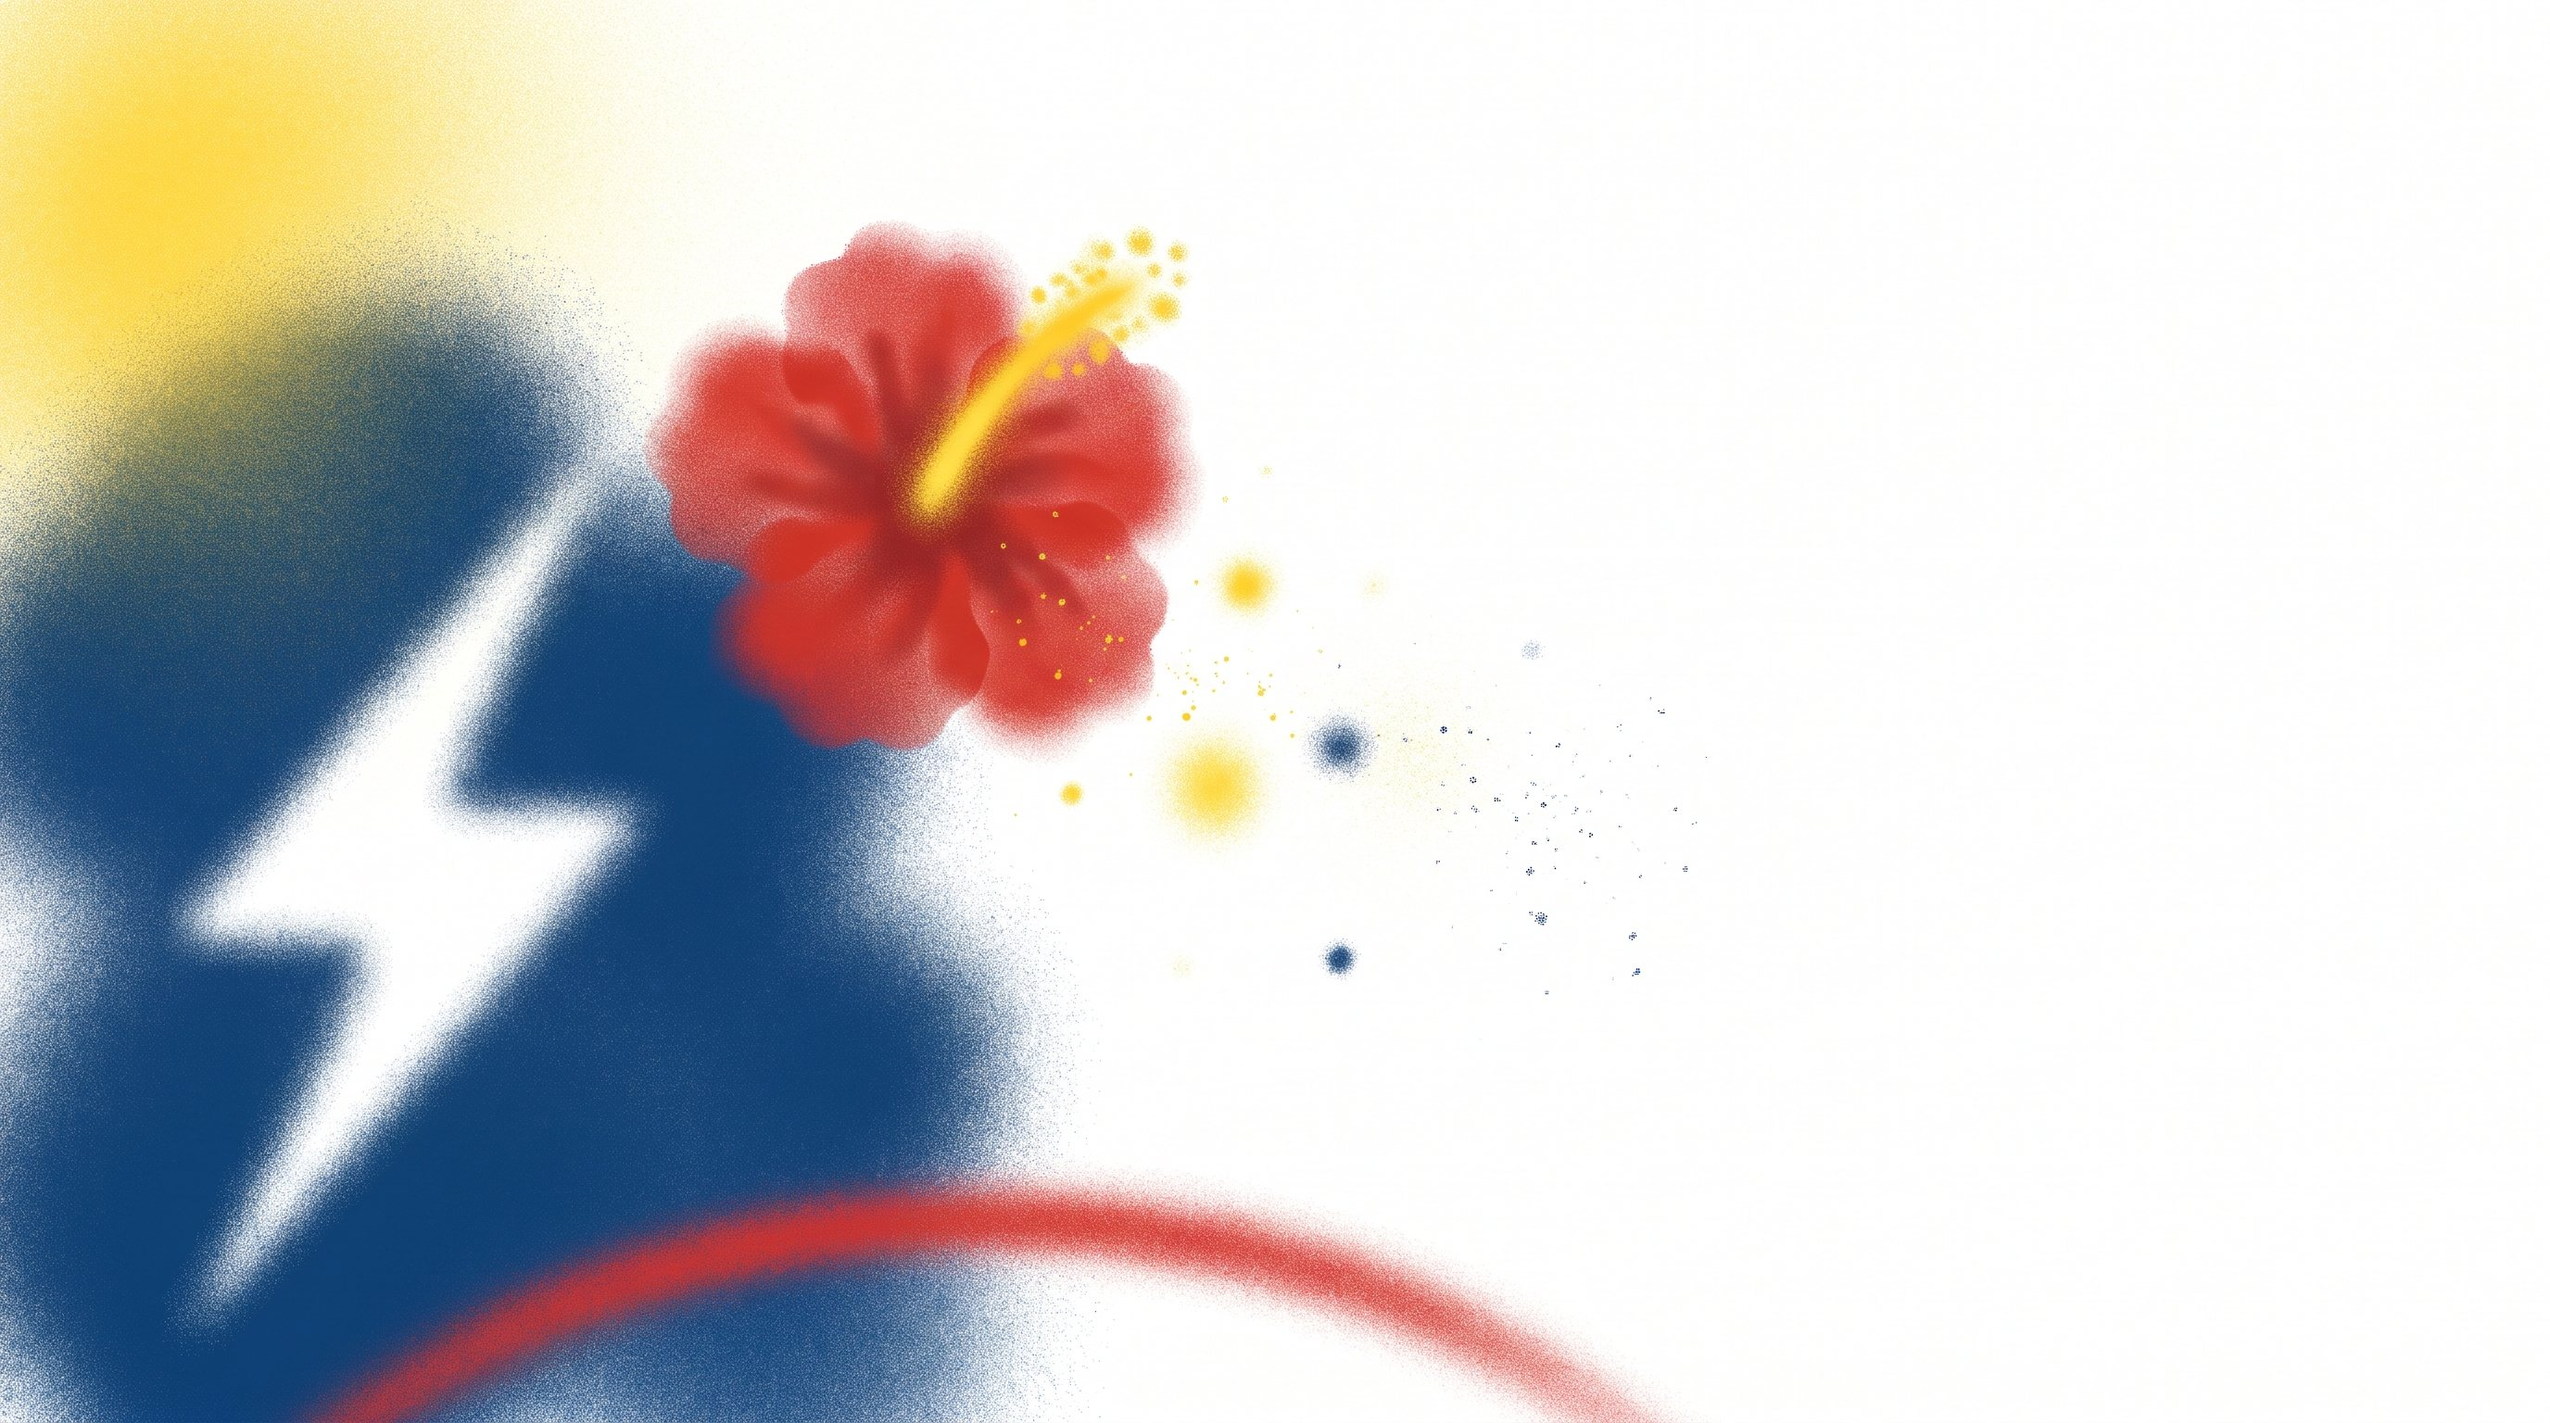
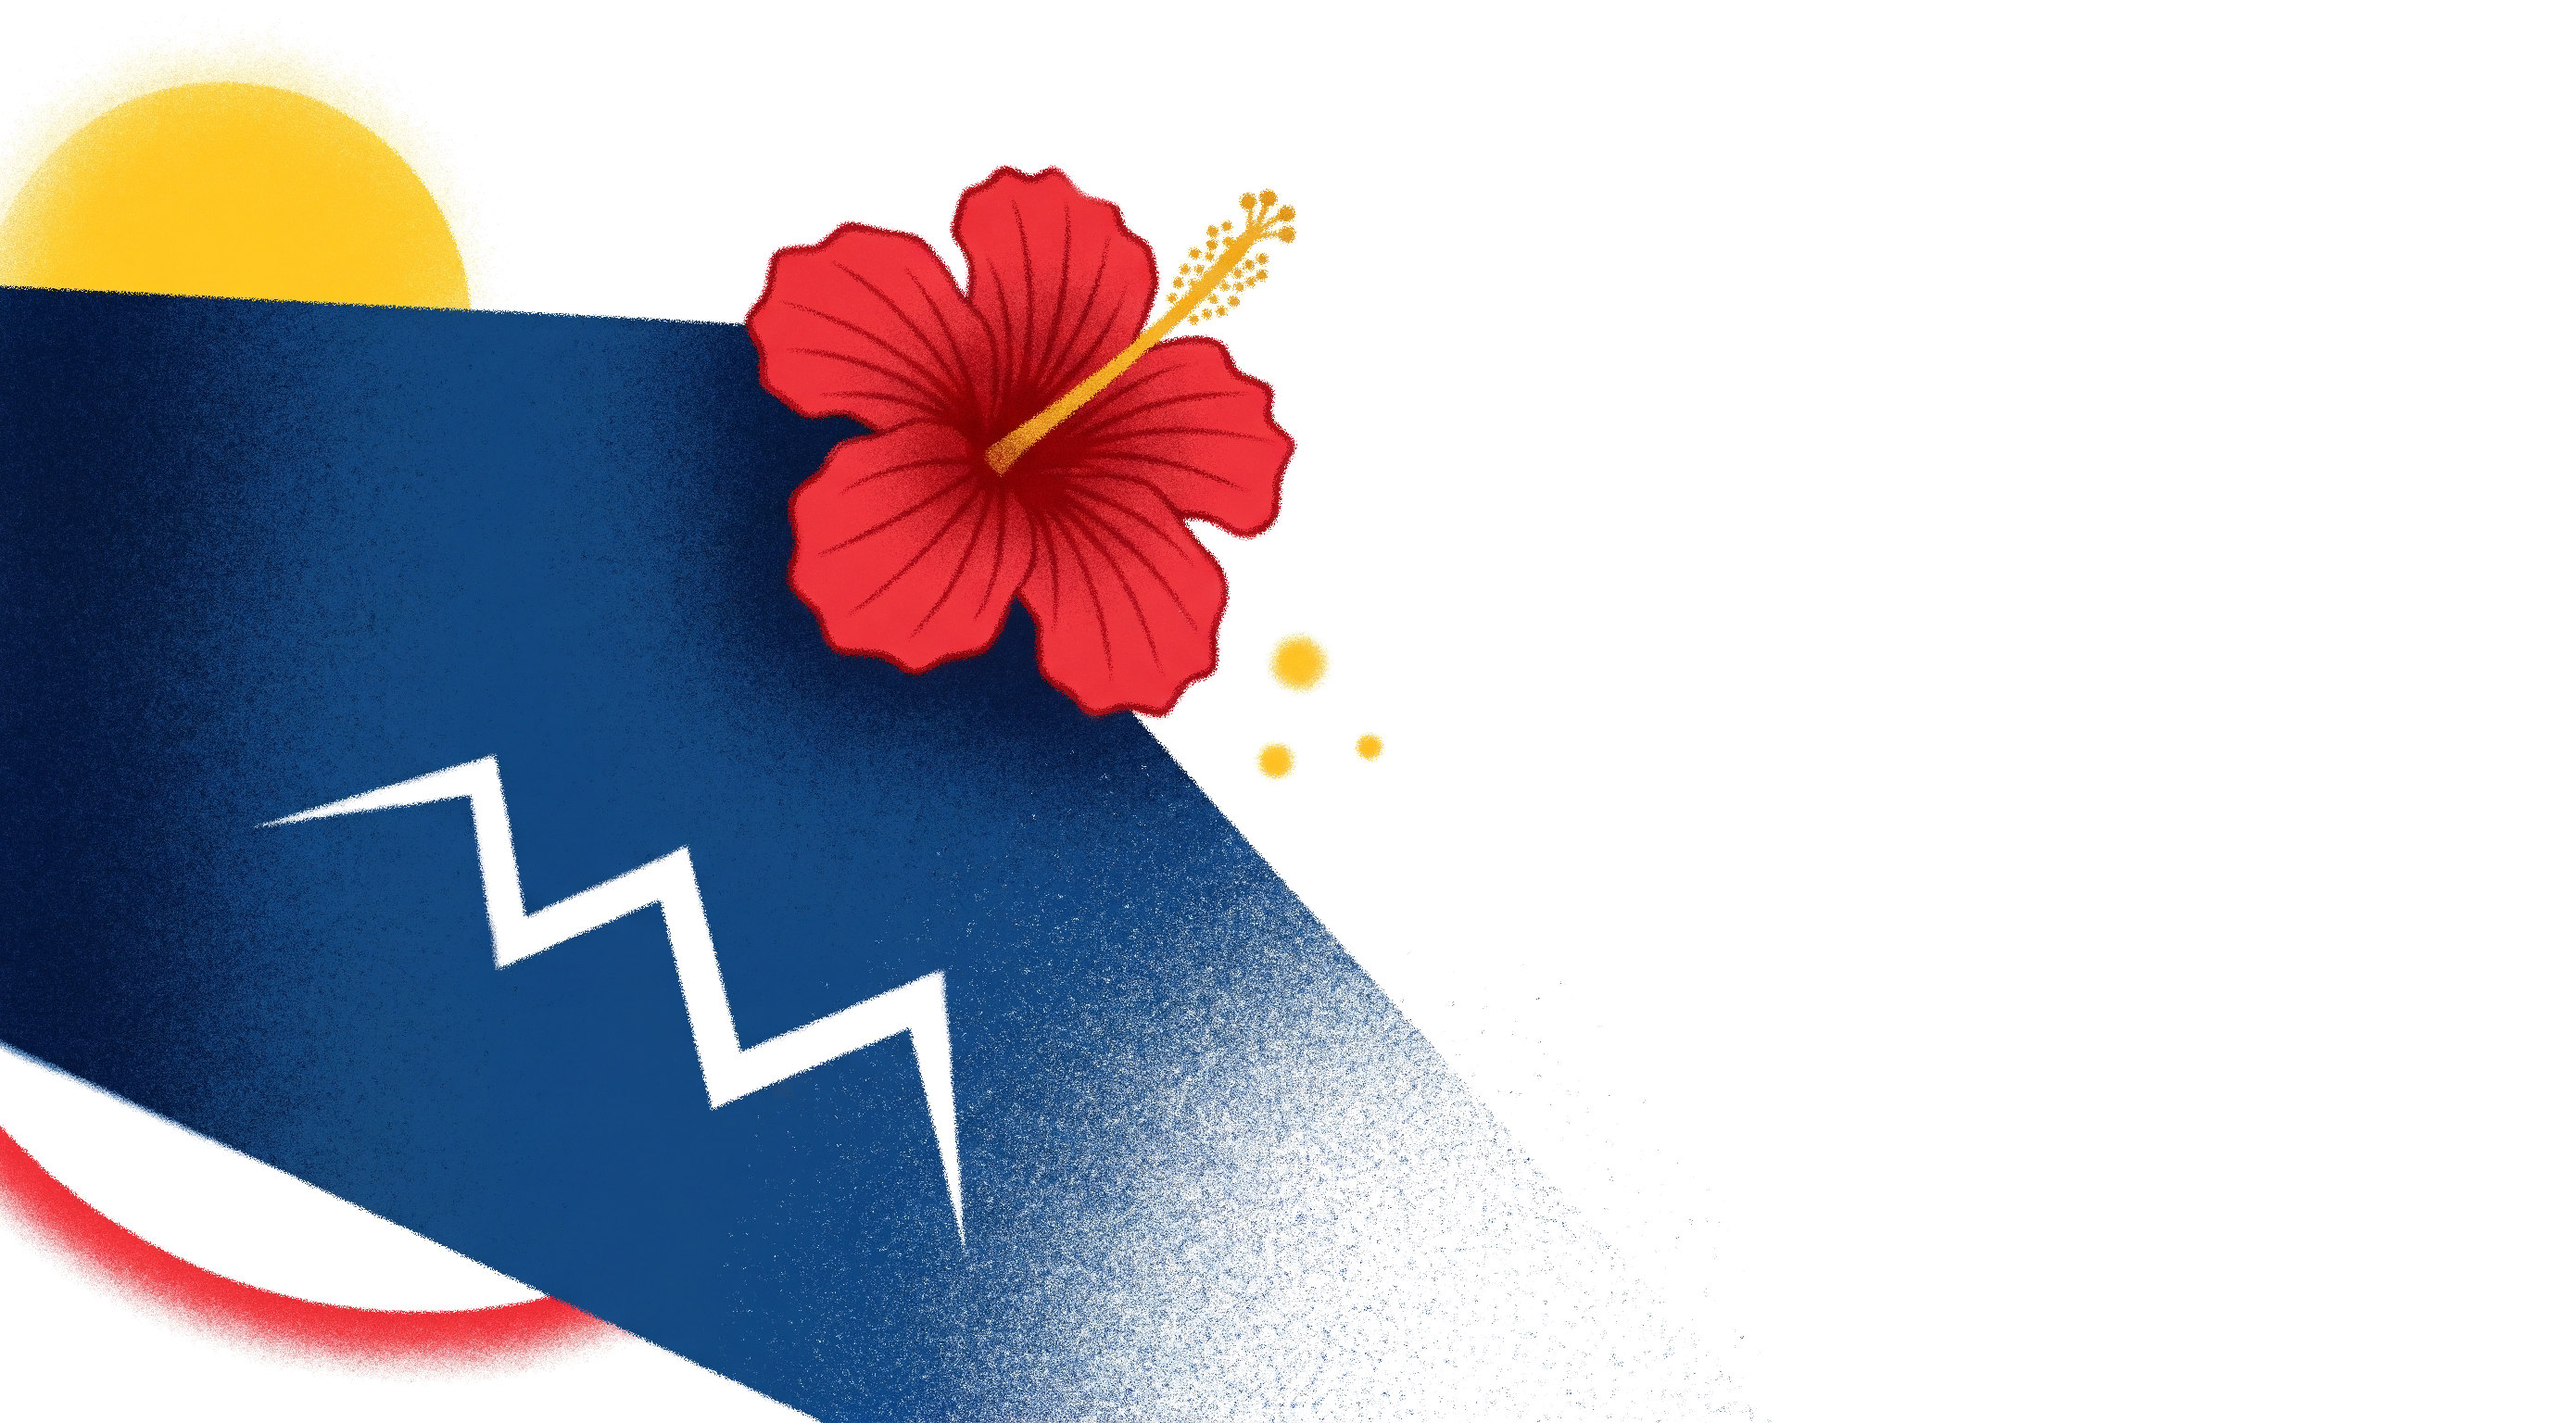
Fix poll flicker (diff render, cached directory, keep typed input); GES self step waits for sign-in; sprayed-edge round-4 poster, transparent accent, no page grain

diff --git a/frontend/index.html b/frontend/index.html
@@ -2,7 +2,7 @@
 <html lang="en"><head><meta charset="utf-8">
 <meta name="viewport" content="width=device-width,initial-scale=1">
 <title>Day One</title>
-<link rel="icon" type="image/png" href="/brand/favicon.png?v=5">
+<link rel="icon" type="image/png" href="/brand/favicon.png?v=6">
 <style>
 /* ===================== DESIGN TOKENS =====================
    Jalur Gemilang only. Official CMYK (Jabatan Penerangan):
@@ -43,10 +43,13 @@ a{color:inherit}
 
 /* poster layer */
 .poster{position:fixed;inset:0;z-index:0;pointer-events:none;overflow:hidden}
+/* bg.jpg is 2752x1536, so at 100vh tall it is 179.2vh wide; the hibiscus's right edge is at 49.2% = 88.2vh.
+   The first card starts at 96vw - 880px. Tuck the flower 30px under it, and never open a gap on the left. */
 .bg{position:absolute;top:0;height:100vh;width:auto;max-width:none;
-  left:min(0px, calc(96vw - 850px - 78.7vh))}   /* hibiscus right edge tucks 30px under the first card */
-.accent{position:absolute;right:0;bottom:0;height:84vh;width:auto;mix-blend-mode:multiply}
-.grain{position:fixed;inset:0;width:100%;height:100%;z-index:3;pointer-events:none;opacity:.07;mix-blend-mode:multiply}
+  left:min(0px, calc(96vw - 850px - 88.2vh))}
+.accent{position:absolute;right:0;bottom:0;width:min(19vw,330px);height:auto}
+/* No page-wide grain layer: the art carries its own grain, and noise on the white paper reads as dirt.
+   No blend modes or SVG filters on fixed layers either: they repaint the whole screen on every scroll. */
 .tag{position:fixed;left:3vw;bottom:5vh;z-index:2;background:var(--yellow);color:var(--blue);
   font:600 10.5px/1.3 var(--mono);letter-spacing:.06em;text-transform:uppercase;
   writing-mode:vertical-rl;transform:rotate(180deg);padding:14px 10px;max-height:46vh;
@@ -55,7 +58,7 @@ a{color:inherit}
 
 /* page */
 .wrap{position:relative;z-index:2;max-width:880px;margin:0 4vw 0 auto;padding:30px 0 64px}
-@media (max-width:1100px){.wrap{margin:0 auto;padding:24px 18px 56px}.bg,.accent{opacity:.22}}
+@media (max-width:1100px){.wrap{margin:0 auto;padding:24px 18px 56px}.bg,.accent{opacity:.22}.tag{display:none}}
 
 header{margin:0 0 28px}
 header .mark{display:flex;align-items:center;gap:16px}
@@ -156,13 +159,12 @@ input:focus,select:focus{outline:none;border-color:var(--blue);box-shadow:0 0 0 
 .hide{display:none}
 </style></head>
 <body>
-<div class="poster" aria-hidden="true"><img class="bg" src="/brand/bg.jpg?v=5" alt=""><img class="accent" src="/brand/accent.jpg?v=5" alt=""></div>
-<svg class="grain" aria-hidden="true"><filter id="n"><feTurbulence type="fractalNoise" baseFrequency=".85" numOctaves="3" stitchTiles="stitch"/><feColorMatrix type="saturate" values="0"/></filter><rect width="100%" height="100%" filter="url(#n)"/></svg>
+<div class="poster" aria-hidden="true"><img class="bg" src="/brand/bg.jpg?v=6" alt=""><img class="accent" src="/brand/accent.png?v=6" alt=""></div>
 <div class="tag"><b>KopiCode 2026 presents</b><br>Day One: onboarding<br>Ali &middot; Muthu &middot; Ah Hock<br>13/11/26</div>
 <div class="wrap">
 <header>
   <div class="mark">
-    <img class="logo" src="/brand/logo-420.png?v=5" alt="Ali, Muthu and Ah Hock">
+    <img class="logo" src="/brand/logo-420.png?v=6" alt="Ali, Muthu and Ah Hock">
     <div class="title">
       <b>Day&nbsp;One</b>
       <div class="with"><i>with</i><span class="name n1">Ali</span><span class="name n2">Muthu</span><span class="name n3">Ah&nbsp;Hock</span></div>
@@ -176,7 +178,7 @@ input:focus,select:focus{outline:none;border-color:var(--blue);box-shadow:0 0 0 
 const $ = s => document.querySelector(s);
 const api = (p, o) => fetch("/api" + p, o).then(r => r.json());
 let F = {employment:"staff", job_family:"developer", project:"odin", want_claude:true};
-let PROJECTS = {}, TIMER = null;
+let PROJECTS = {}, TIMER = null, DIR = null, LAST = "";
 
 const esc = s => (s||"").replace(/[&<>"]/g, c => ({"&":"&amp;","<":"&lt;",">":"&gt;",'"':"&quot;"}[c]));
 
@@ -261,11 +263,11 @@ async function submit(){
 
 /* ---------- her page ---------- */
 function watch(token){
-  const tick = async () => { try { render(await api("/n/" + token), token); } catch(e){} };
+  const tick = async () => { try { await render(await api("/n/" + token), token); } catch(e){ console.warn(e); } };
   tick(); clearInterval(TIMER); TIMER = setInterval(tick, 1500);
 }
 const CH = {
-  self:   {k:"Your turn — 1 thing", act:"I have done it"},
+  self:   {k:"Your turn", act:"I have done it"},
   slack_guided:{k:"Your turn — this one is not GSD", act:"I have sent it"},
   person: {k:"Nothing for you today — waiting on a person", act:"He has added me"},
 };
@@ -294,8 +296,9 @@ function card(v, token){
       <span class="muted">We guessed it from your name. Correct it if it differs.</span>
     </div>` : "";
   const copy = (t.fields||[]).length ? t.fields.map(f => f.label + ": " + f.value).join("\n") : t.ask;
+  const n = v.your_turn_count || 1;
   return `<div class="turn ${t.channel==="person"?"calm":""}">
-    <div class="k">${c.k}</div>
+    <div class="k">${c.k}${n > 1 ? ` &middot; 1 of ${n}` : ""}</div>
     <div class="v">${esc(t.title)}</div>
     <div class="d">${esc(t.hint || "")}</div>
     ${howto}${fields}${ask}${emailAsk}
@@ -305,27 +308,32 @@ function card(v, token){
         : `<p class="warn">That link has expired. IT must reset the account - raise a GSD ticket.</p>`) : ""}
     ${t.id==="password_reset" ? '<p class="muted" style="margin-top:9px">Day One never sees or stores your password.</p>' : ""}
     <div class="acts">
-      ${copy ? `<button class="btn ghost sm" onclick='navigator.clipboard.writeText(${JSON.stringify(copy)})'>Copy</button>`:""}
+      ${copy ? `<button class="btn ghost sm" data-copy="${esc(copy)}" onclick="navigator.clipboard.writeText(this.dataset.copy)">Copy</button>`:""}
       ${t.channel==="person" && v.poc_email ? `<a class="btn ghost sm" href="mailto:${v.poc_email}">Email ${esc(v.poc_name)}</a>`:""}
       <button class="btn sm" onclick="confirmStep('${token}','${t.id}')">${c.act}</button>
     </div></div>`;
 }
 async function confirmStep(token, step){
   const el = document.querySelector("#we");
-  render(await api(`/n/${token}/steps/${step}/confirm`, {method:"POST",
+  await render(await api(`/n/${token}/steps/${step}/confirm`, {method:"POST",
     headers:{"content-type":"application/json"},
     body: JSON.stringify({work_email: el ? el.value.trim() : ""})}), token);
 }
-function render(v, token){
+/* Polling runs every 1.5 s. Build the whole screen as one string and touch the DOM only when that
+   string changes: no empty right column between polls, no lost hover, no reset of what she types. */
+async function render(v, token){
+  if (!DIR) DIR = await api("/directory");
   const icon = s => s.state==="done" ? '<span class="ico done">&#10003;</span>'
     : s.state==="open" ? '<span class="ico open"></span>'
-    : s.state.startsWith("waiting") ? '<span class="ico now"></span>' : '<span class="ico"></span>';
+    : s.state.startsWith("waiting") && !(s.held_by||[]).length ? '<span class="ico now"></span>'
+    : s.state==="waiting_user" ? '<span class="ico open"></span>' : '<span class="ico"></span>';
   const sub = s => s.state==="done" ? "ready"
     : s.state==="open" ? `with IT &middot; GSD #${s.ticket_id} &middot; usually ${s.eta_days} days`
+    : s.state==="waiting_user" && s.held_by.length ? `IT granted it &middot; yours after ${esc(s.held_by.join(", "))}`
     : s.state==="waiting_user" ? "your turn"
     : s.state==="waiting_person" ? `${esc(v.poc_name)} does this` 
     : "queued &middot; needs " + s.blocked_by.join(", ");
-  $("#app").innerHTML = `<div class="cols">
+  const html = `<div class="cols">
     <div class="main">
       ${card(v, token)}
       <div class="panel"><h2>Everything else — ${v.progress.done} of ${v.progress.total} ready</h2>
@@ -334,15 +342,19 @@ function render(v, token){
       ${v.work_email ? `<p class="muted" style="margin-top:11px">Your address: <b>${esc(v.work_email)}</b></p>` : ""}
       </div>
     </div>
-    <div class="side panel" id="side"></div>
+    <div class="side panel" id="side">${side(v, DIR)}</div>
   </div>`;
-  side(v);
+  if (html === LAST) return;
+  const we = $("#we"), typed = we ? we.value : null, focused = we && document.activeElement === we;
+  LAST = html;
+  $("#app").innerHTML = html;
+  const we2 = $("#we");
+  if (we2 && typed !== null) { we2.value = typed; if (focused) we2.focus(); }
 }
-async function side(v){
-  const d = await api("/directory");
+function side(v, d){
   const mine = d.find(x => x.key === (v.project||"").toLowerCase());
   const idle = !v.your_turn;
-  $("#side").innerHTML = `
+  return `
     ${idle ? `<h2>While you wait</h2>
       <div class="card"><b>Test what you know</b>
         <p>A short quiz on GTech. Two minutes, no access needed.</p>

diff --git a/backend/app/engine.py b/backend/app/engine.py
@@ -141,7 +141,9 @@ def advance(conn, desk, oid: int) -> None:
 def confirm(conn, desk, oid: int, step_id: str, work_email: str = "") -> None:
     if work_email:
         set_work_email(conn, oid, work_email.strip())
-    if _states(conn, oid).get(step_id) in (WAIT_USER, WAIT_PERSON):
+    states = _states(conn, oid)
+    held = any(states.get(d) not in (None, DONE) for d in flow.STEP_BY_ID[step_id].self_after)
+    if states.get(step_id) in (WAIT_USER, WAIT_PERSON) and not held:
         _set(conn, oid, step_id, DONE)
     advance(conn, desk, oid)
 
@@ -189,6 +191,10 @@ def view(conn, desk, oid: int) -> dict:
                            for d in flow.deps_for(s, o["employment"])
                            if d in flow.STEP_BY_ID],
         })
+    by_id = {s["id"]: s for s in steps}
+    for s in steps:   # granted by IT, but her part needs another step first (GES needs her inbox)
+        s["held_by"] = [by_id[d]["title"] for d in flow.STEP_BY_ID[s["id"]].self_after
+                        if d in by_id and by_id[d]["state"] != DONE] if s["state"] == WAIT_USER else []
     out["steps"] = steps
     done = sum(1 for s in steps if s["state"] == DONE)
     out["progress"] = {"done": done, "total": len(steps)}
@@ -198,7 +204,9 @@ def view(conn, desk, oid: int) -> dict:
     out["link_expires_in_hours"] = _link_hours_left(conn, oid)
     for s in steps:
         s["ask_email"] = (s["id"] == "password_reset" and not o["work_email"])
-    out["your_turn"] = next((s for s in steps if s["state"] in (WAIT_USER, WAIT_PERSON)), None)
+    mine = [s for s in steps if s["state"] in (WAIT_USER, WAIT_PERSON) and not s["held_by"]]
+    out["your_turn"] = mine[0] if mine else None
+    out["your_turn_count"] = len(mine)
     out["waiting_on"] = next((s for s in steps if s["state"] == OPEN), None)
     return out
 

diff --git a/backend/smoke.py b/backend/smoke.py
@@ -38,6 +38,19 @@ def run(employment, job_family, project):
     print(f"  work email read back from the ticket reply: {v['work_email']}")
     assert v["your_turn"]["id"] == "password_reset"
 
+    # GES mails her WORK inbox, so her GES part must wait until she has signed in
+    ges = next((s for s in v["steps"] if s["id"] == "ges"), None)
+    if ges:
+        desk.resolve(ges["ticket_id"])
+        v = engine.view(conn, desk, oid)
+        ges = next(s for s in v["steps"] if s["id"] == "ges")
+        assert ges["state"] == "waiting_user" and ges["held_by"], ges
+        assert v["your_turn"]["id"] == "password_reset", "GES must not jump the sign-in"
+        engine.confirm(conn, desk, oid, "ges")
+        assert next(s for s in engine.view(conn, desk, oid)["steps"]
+                    if s["id"] == "ges")["state"] == "waiting_user", "early GES confirm ignored"
+        print("  GES granted early, held until she signs in: ok")
+
     engine.confirm(conn, desk, oid, "password_reset")
     for _ in range(5):
         v = engine.view(conn, desk, oid)

diff --git a/backend/app/flow.py b/backend/app/flow.py
@@ -36,6 +36,7 @@ class Step:
     fields: tuple = ()     # pre-filled form values, for a `slack_guided` step
     howto: tuple = ()      # numbered instructions shown on the card
     then_self: bool = False  # IT grants it, then the hire still has to sign in
+    self_after: tuple = ()   # her own part waits for these, e.g. she needs her inbox first
     hint: str = ""         # one line of context shown on the card
 
 
@@ -72,7 +73,7 @@ STEPS: tuple[Step, ...] = (
          deps=("email",), staff_only=True,
          subject="GES access for {name}",
          body="Grant GES access for {name}. Login is the employee ID.",
-         then_self=True,
+         then_self=True, self_after=("password_reset",),
          hint="GES holds your role, employee details, KPI and leave.",
          howto=(
              "GES mails {work_email} with your user ID and a temporary password. "
